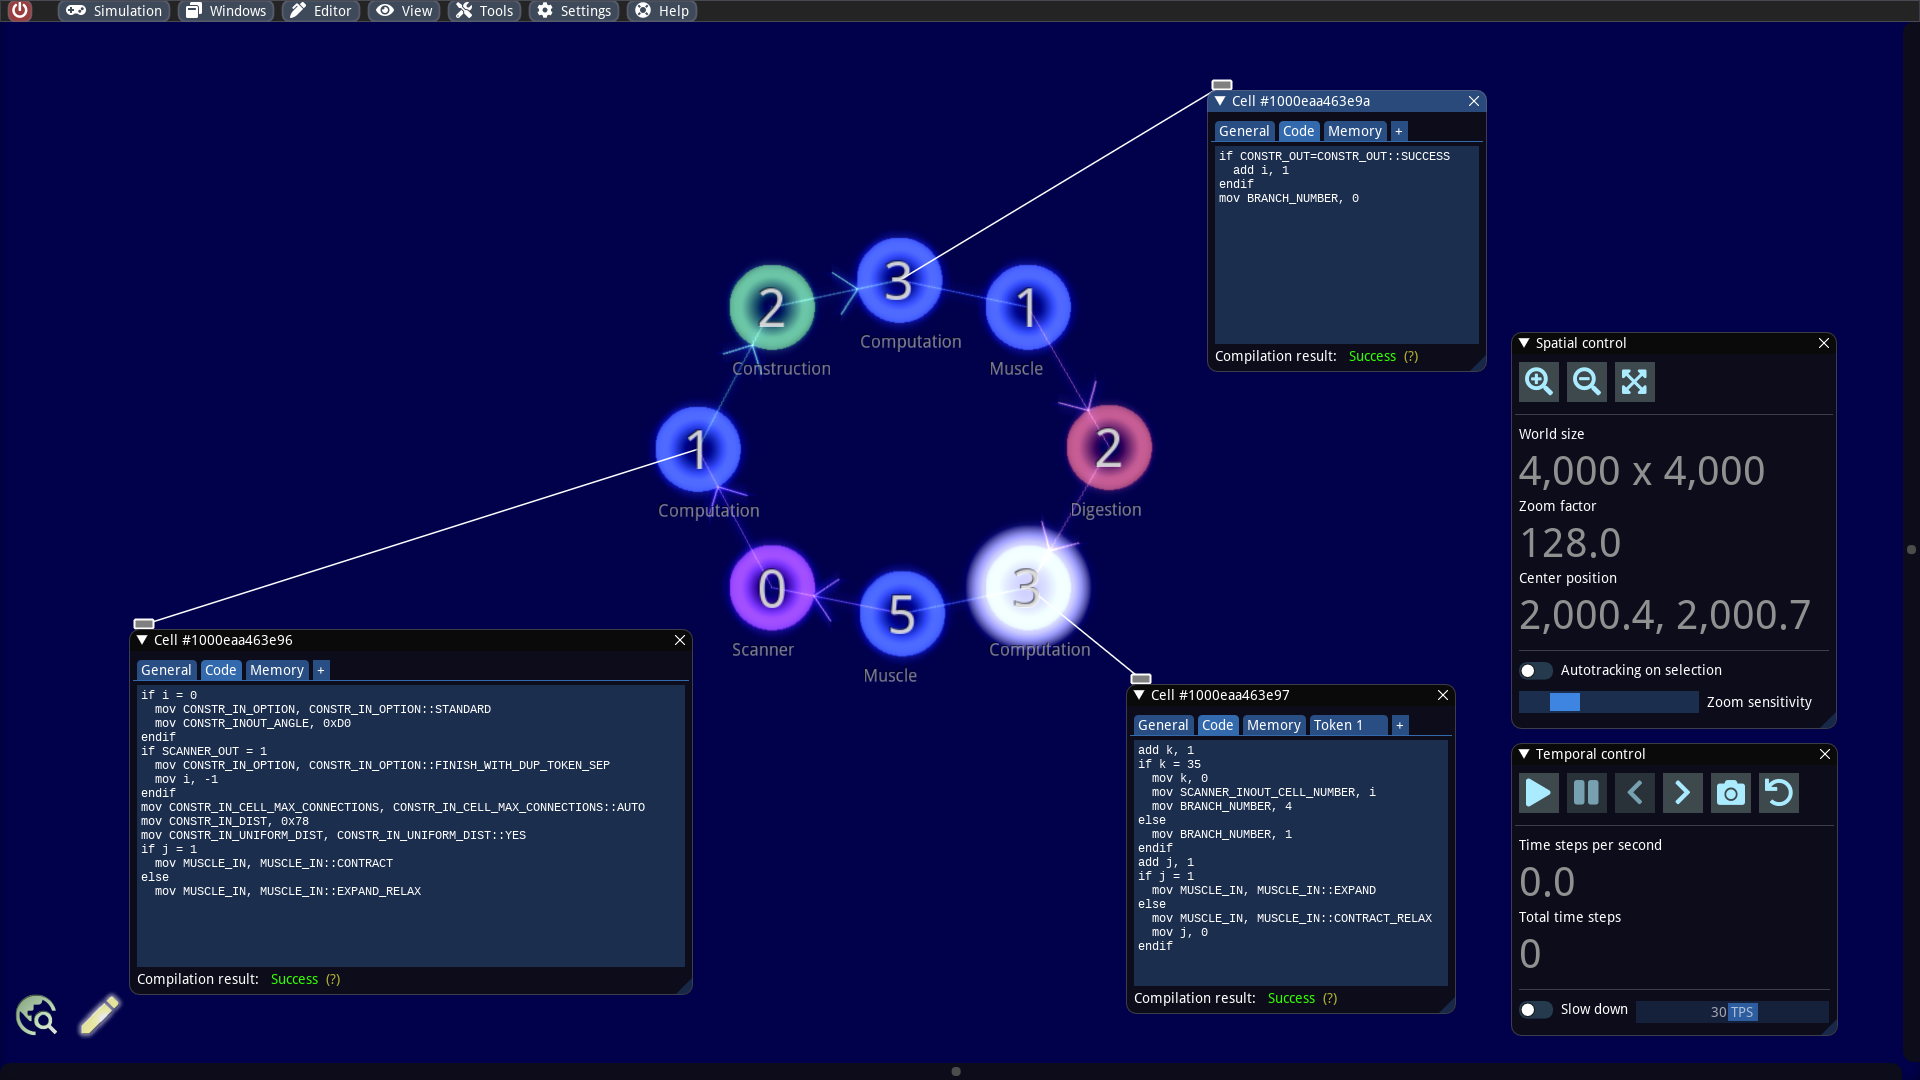
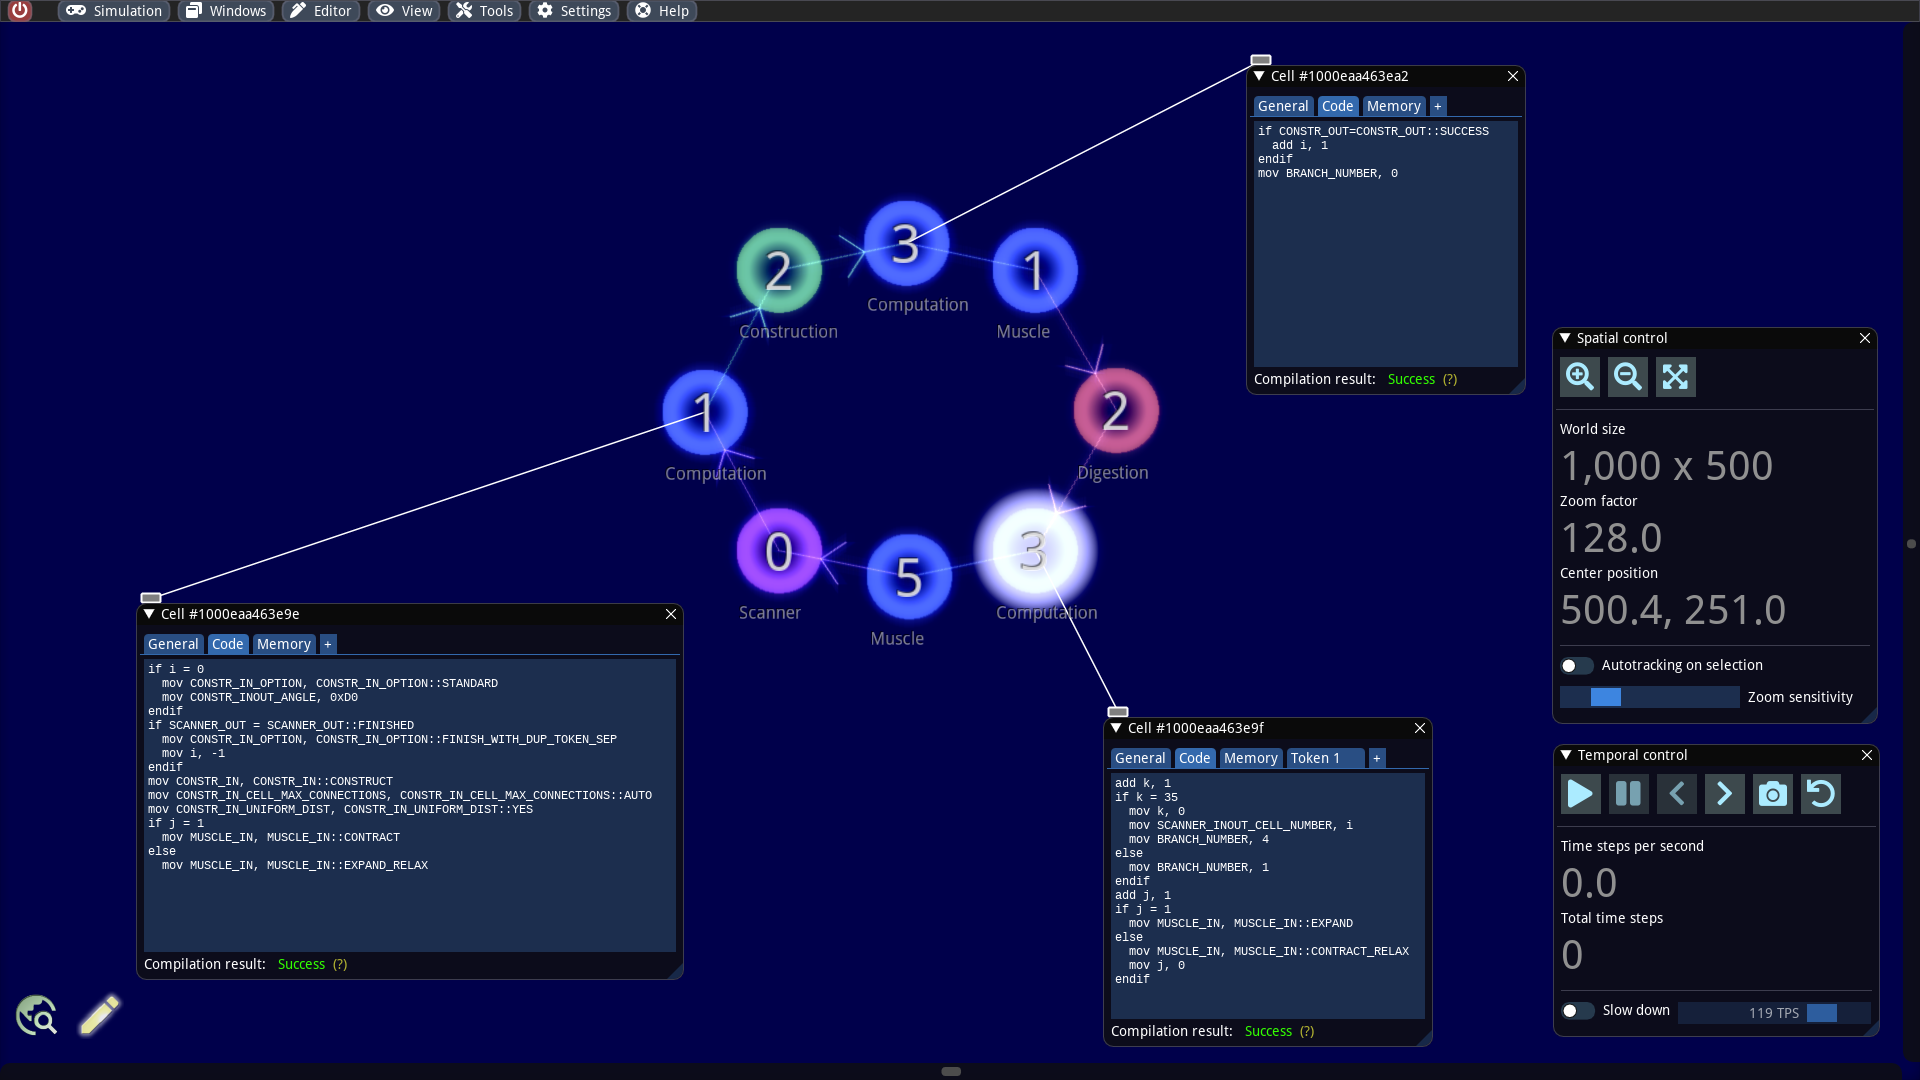
GitBook: [#332] No subject

Changed region(s): [[0.0625, 0.0611, 1.0, 0.9778], [0.5625, 0.1222, 0.5938, 0.1528]]

diff --git a/dive-a-little-deeper/cell-programming/self-replicating-machines.md b/dive-a-little-deeper/cell-programming/self-replicating-machines.md
@@ -124,7 +124,7 @@ endif
 ```
 
 * Line 1 - 8: `k` is a variable used to introduce additional delays in the construction process, because after a new cell is created, it needs some time to fold into the correct position. `k` is incremented to `35` and then reset. During the increment we force the token not to jump to the next cell but to the previous cell by setting the `BRANCH_NUMBER` appropriately. The previous cell is a digestion cell and provides our replicator with energy. Only when `k` is equal to `35` we let the token jump to the successor cell in the ring and specify in `SCANNER_INOUT_CELL_NUMBER` the cell number we want to scan and replicate next. The variable `i` simply serves here as a pointer to the current cell we want to replicate.
-* Line 9 - 15: Here is a simple muscle controller that leads to periodic expansion and contraction and generates an impulse. We have already seen such programming in the swarmbot example.
+* Line 9 - 15: Here one finds a simple muscle controller with a counter variable `j` that leads to periodic expansion and contraction and generates an impulse. We have already seen such programming in the swarmbot example.
 
 Of particular interest to us is the programming of the lower left computational cell:
 
@@ -133,12 +133,12 @@ if i = 0
   mov CONSTR_IN_OPTION, CONSTR_IN_OPTION::STANDARD
   mov CONSTR_INOUT_ANGLE, 0xD0
 endif
-if SCANNER_OUT = 1
+if SCANNER_OUT = SCANNER_OUT::FINISHED
   mov CONSTR_IN_OPTION, CONSTR_IN_OPTION::FINISH_WITH_DUP_TOKEN_SEP
   mov i, -1
 endif
+mov CONSTR_IN, CONSTR_IN::CONSTRUCT
 mov CONSTR_IN_CELL_MAX_CONNECTIONS, CONSTR_IN_CELL_MAX_CONNECTIONS::AUTO
-mov CONSTR_IN_DIST, 0x78
 mov CONSTR_IN_UNIFORM_DIST, CONSTR_IN_UNIFORM_DIST::YES
 if j = 1
   mov MUSCLE_IN, MUSCLE_IN::CONTRACT
@@ -147,7 +147,12 @@ else
 
 ```
 
-* Line 1 - 4: If we start the construction process, i.e., if `i` is `0`, we set the construction type here with CONSTR\_IN\_OPTION::STANDARD (we will discuss the alternatives below) and the initial angle of our construction site. The angles are always specified with respect to the direction of the token movement. The value `0xD0` corresponds to approx. `-67.5` degrees.
+* Line 1 - 4: If we start the construction process, i.e., if `i` is `0`, we set the construction option here with `CONSTR_IN_OPTION::STANDARD` (we will discuss the alternatives below) and the initial angle of our construction site. The angles are always specified with respect to the direction of the token movement. The value `0xD0` corresponds to approx. `-67.5` degrees.
+* Line 5 - 8:  We check if we have already scanned the last cell (alternatively, we could also check that `i` equals `8`). If this is the case, we instruct the constructor to detach the cluster after creating the new cell and create a token on it.
+* Line 9: In this line, `CONSTR_IN::CONSTRUCT` will later inform the constructor that we want to create a new cell. The only alternative value is `CONSTR_IN::DO_NOTHING`.
+* Line 10: We instruct the constructor to automatically adjust the maximum number of cell connections to the cells. This always ensures that the construction process does not fail because the cells can no longer form new connections.
+* Line 11: We set a uniform cell distance for all new cell connections.&#x20;
+* Line 12 - 15: This is where the control for the second muscle is located and also causes periodic contraction and expansion while producing an impulse.
 
 
 
